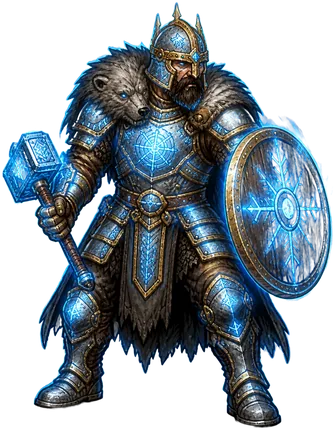
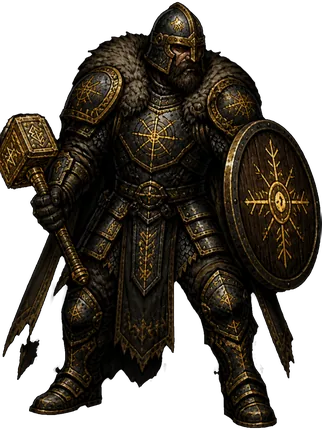
Gardien des runes : armure palier V repeinte (dorures du IV, plus lourde, sans aura)
Claude-Session: https://claude.ai/code/session_01XuxscubMSQPeew8BrSfQGu

diff --git a/index.html b/index.html
@@ -242,7 +242,7 @@ p{margin:6px 0;line-height:1.45}
 <div id="boot"><div class="bootin"><img src="assets/ui_emblem.webp" alt="" onerror="this.remove()"><h1>Couronne de Cendres</h1><div class="bootbar"><i></i></div><div class="boottxt">Les braises s'allument…</div><button class="btn ghost sm" id="bootskip" style="display:none">Continuer sans attendre</button></div></div>
 <div id="toasts" aria-live="polite"></div>
 <script>window.CC_SW = 1;</script><script>
-window.ART_LIST=["bg_abime","bg_bastion","bg_bastion2","bg_bastion_port","bg_bastion_port_src","bg_bourg","bg_catacombes","bg_cimes","bg_citadelle","bg_cite","bg_foret","bg_marais","bg_mines","bg_terres","bg_titre","bg_trone","bg_worldmap","bld_academie","bld_academie_2","bld_academie_3","bld_chapelle","bld_chapelle_2","bld_chapelle_3","bld_fonderie","bld_fonderie_2","bld_fonderie_3","bld_forge","bld_forge_2","bld_forge_3","bld_menagerie","bld_menagerie_2","bld_menagerie_3","bld_porte","bld_taverne","bld_taverne_2","bld_taverne_3","hero_arbaletriere_chasseresse","hero_arbaletriere_t1","hero_arbaletriere_t2","hero_arbaletriere_t3","hero_arbaletriere_t4","hero_arbaletriere_t5","hero_arbaletriere_tireuse_elite","hero_berserker_chef_guerre","hero_berserker_ecorcheur","hero_berserker_t1","hero_berserker_t2","hero_berserker_t3","hero_berserker_t4","hero_berserker_t5","hero_chasseur_sorcieres_purificateur","hero_chasseur_sorcieres_t1","hero_chasseur_sorcieres_t2","hero_chasseur_sorcieres_t3","hero_chasseur_sorcieres_t4","hero_chasseur_sorcieres_t5","hero_chasseur_sorcieres_traqueur","hero_exorciste_confesseur","hero_exorciste_penitent","hero_exorciste_t1","hero_exorciste_t2","hero_exorciste_t3","hero_exorciste_t4","hero_exorciste_t5","hero_gardien_runes_forge_tonnerre","hero_gardien_runes_t1","hero_gardien_runes_t2","hero_gardien_runes_t3","hero_gardien_runes_t4","hero_gardien_runes_t5","hero_gardien_runes_thane_pierre","hero_hallebardier_garde_roi","hero_hallebardier_lansquenet","hero_hallebardier_t1","hero_hallebardier_t2","hero_hallebardier_t3","hero_hallebardier_t4","hero_hallebardier_t5","hero_medecin_peste_apothicaire","hero_medecin_peste_chirurgien","hero_medecin_peste_t1","hero_medecin_peste_t2","hero_medecin_peste_t3","hero_medecin_peste_t4","hero_medecin_peste_t5","hero_menestrel_chantre","hero_menestrel_heraut","hero_menestrel_t1","hero_menestrel_t2","hero_menestrel_t3","hero_menestrel_t4","hero_menestrel_t5","hero_necromancien_liche","hero_necromancien_maitre_tombes","hero_necromancien_t1","hero_necromancien_t2","hero_necromancien_t3","hero_necromancien_t4","hero_necromancien_t5","hero_ombre_assassin","hero_ombre_ombre_sang","hero_ombre_t1","hero_ombre_t2","hero_ombre_t3","hero_ombre_t4","hero_ombre_t5","hero_pretresse_martyre","hero_pretresse_sainte","hero_pretresse_t1","hero_pretresse_t2","hero_pretresse_t3","hero_pretresse_t4","hero_pretresse_t5","hero_pyromancien_archimage","hero_pyromancien_demoniste","hero_pyromancien_t1","hero_pyromancien_t2","hero_pyromancien_t3","hero_pyromancien_t4","hero_pyromancien_t5","hero_revenant_seigneur_sang","hero_revenant_spectre","hero_revenant_t1","hero_revenant_t2","hero_revenant_t3","hero_revenant_t4","hero_revenant_t5","hero_sorciere_druidesse","hero_sorciere_sorciere_noire","hero_sorciere_t1","hero_sorciere_t2","hero_sorciere_t3","hero_sorciere_t4","hero_sorciere_t5","hero_templier_bastion","hero_templier_inquisiteur","hero_templier_t1","hero_templier_t2","hero_templier_t3","hero_templier_t4","hero_templier_t5","map_boss","map_camp","map_combat","map_elite","map_event","map_shop","map_treasure","mon_abbe","mon_alpha","mon_anguille_ombre","mon_araignee","mon_archer","mon_archer_os","mon_archonte_cendres","mon_boucher","mon_bouffon_roi","mon_bourreau","mon_brigand","mon_cardinal","mon_champion_roi","mon_charognard","mon_chauve_souris","mon_chevalier_couronne","mon_chevalier_dechu","mon_chevalier_os","mon_chevaucheur_calcine","mon_chien_cendre","mon_coeur_montagne","mon_colosse_braise","mon_contremaitre","mon_crabe_geant","mon_crapaud","mon_cultiste","mon_devoreur_lumiere","mon_diablotin","mon_docteur","mon_dryade","mon_follet","mon_fondeur_maudit","mon_garde_spectral","mon_gargouille","mon_golem","mon_golem_fer","mon_goule","mon_hallebardier_os","mon_heraut_neant","mon_homme_poisson","mon_horreur","mon_hydre","mon_inquisiteur","mon_jarl_mort","mon_leviathan","mon_liche","mon_loup","mon_loup_givre","mon_matrone_os","mon_mere_noyes","mon_mere_ronces","mon_mineur_possede","mon_moine_flagellant","mon_necrophage","mon_noye","mon_noyee_chantante","mon_oeil","mon_ogre","mon_pecheur","mon_pendu","mon_penitent_ardent","mon_pestifere","mon_pretre_abysses","mon_pretre_suie","mon_prieur","mon_profond","mon_rat","mon_reine_hiver","mon_reine_sabbat","mon_revenant_glace","mon_roi","mon_roi_noye","mon_roi_vide","mon_sangsue","mon_sans_nom","mon_sans_visage","mon_sentinelle_obsidienne","mon_seraphin_dechu","mon_sorcier_givre","mon_sorciere_marais","mon_spectre","mon_spectre_blizzard","mon_squelette","mon_thuriferaire","mon_troll_givre","mon_ver_roche","pet_araignee","pet_araignee_evo","pet_belette","pet_cerf","pet_cerf_evo","pet_chat_noir","pet_chat_noir_evo","pet_chauve_souris","pet_chauve_souris_evo","pet_chouette","pet_chouette_evo","pet_corbeau","pet_corbeau_evo","pet_crapaud","pet_crapaud_evo","pet_drake","pet_drake_evo","pet_feu_follet","pet_feu_follet_evo","pet_gargouille","pet_gargouille_evo","pet_griffon","pet_griffon_evo","pet_loup","pet_loup_evo","pet_molosse","pet_molosse_evo","pet_ours","pet_ours_evo","pet_renard","pet_renard_evo","pet_salamandre","pet_salamandre_evo","pet_sanglier","pet_sanglier_evo","pet_vipere","pet_vipere_evo","por_anselme","por_capitaine","por_maugrin","por_ysolde","tr_amulette_sel","tr_bague_fer","tr_cape_brume","tr_chapelet","tr_cloche_morte","tr_coeur_braise","tr_coeur_roi","tr_couronne_epines","tr_crane_saint","tr_croc_vampire","tr_dent_loup","tr_ecu_brise","tr_fiole_sang","tr_fragment_couronne","tr_gant_bourreau","tr_griffe_ombre","tr_herbe_rare","tr_oeil_abime","tr_oeil_verre","tr_phylactere","tr_pierre_ame","tr_plume_corbeau","tr_relique_aube","tr_sablier","tr_sceau_rouge","ui_aim","ui_amulet","ui_anvil","ui_armor","ui_atlas","ui_axe","ui_back","ui_bag","ui_banner","ui_bark","ui_bell","ui_bird","ui_bless","ui_blood","ui_bolt","ui_bones","ui_book","ui_boom","ui_camp","ui_castle","ui_chain","ui_chapel","ui_charge","ui_chest","ui_claw","ui_cleanse","ui_cloak","ui_coin","ui_crown","ui_cup","ui_curse","ui_dagger","ui_daily","ui_dice","ui_drain","ui_ember","ui_emblem","ui_essence","ui_eye","ui_fang","ui_fear","ui_feather","ui_fire","ui_flames","ui_flare","ui_flask","ui_flee","ui_frost","ui_furnace","ui_gear","ui_gem","ui_ghost","ui_glove","ui_guard","ui_hammer","ui_hand","ui_heal","ui_heart","ui_helm","ui_herb","ui_horn","ui_hourglass","ui_iron","ui_knives","ui_link","ui_lock","ui_lute","ui_mace","ui_map","ui_mark","ui_mask","ui_meteor","ui_moon","ui_music","ui_note","ui_pact","ui_paw","ui_pawn","ui_pierce","ui_pillar","ui_potion","ui_quest","ui_rage","ui_rain","ui_ray","ui_ring","ui_riposte","ui_root","ui_rosary","ui_run","ui_sanct","ui_scroll","ui_scythe","ui_seal","ui_shard","ui_shield","ui_shroud","ui_skull","ui_skullc","ui_smoke","ui_sound","ui_star","ui_stun","ui_sun","ui_sword","ui_swords","ui_tavern","ui_thorn","ui_torch","ui_trap","ui_tree","ui_trophy","ui_vial","ui_wall","ui_weapon","ui_whirl","ui_wind","wpn_arbalete","wpn_baton","wpn_croix","wpn_dagues","wpn_encensoir","wpn_espadon","wpn_faucille","wpn_faux","wpn_grimoire","wpn_hache","wpn_hallebarde","wpn_luth","wpn_marteau","wpn_masse","wpn_rapiere"];window.ART_META={"hero_arbaletriere_chasseresse": 0.019,"hero_arbaletriere_t1": 0.009,"hero_arbaletriere_t2": 0.009,"hero_arbaletriere_t3": 0.007,"hero_arbaletriere_t4": 0.007,"hero_arbaletriere_t5": 0.007,"hero_arbaletriere_tireuse_elite": 0.007,"hero_berserker_chef_guerre": 0.03,"hero_berserker_ecorcheur": 0.007,"hero_berserker_t1": 0.014,"hero_berserker_t2": 0.009,"hero_berserker_t3": 0.009,"hero_berserker_t4": 0.007,"hero_berserker_t5": 0.007,"hero_chasseur_sorcieres_purificateur": 0.056,"hero_chasseur_sorcieres_t1": 0.007,"hero_chasseur_sorcieres_t2": 0.009,"hero_chasseur_sorcieres_t3": 0.007,"hero_chasseur_sorcieres_t4": 0.007,"hero_chasseur_sorcieres_t5": 0.012,"hero_chasseur_sorcieres_traqueur": 0.007,"hero_exorciste_confesseur": 0.005,"hero_exorciste_penitent": 0.028,"hero_exorciste_t1": 0.04,"hero_exorciste_t2": 0.065,"hero_exorciste_t3": 0.074,"hero_exorciste_t4": 0.072,"hero_exorciste_t5": 0.03,"hero_gardien_runes_forge_tonnerre": 0.023,"hero_gardien_runes_t1": 0.014,"hero_gardien_runes_t2": 0.012,"hero_gardien_runes_t3": 0.014,"hero_gardien_runes_t4": 0.014,"hero_gardien_runes_t5": 0.035,"hero_gardien_runes_thane_pierre": 0.014,"hero_hallebardier_garde_roi": 0.016,"hero_hallebardier_lansquenet": 0.028,"hero_hallebardier_t1": 0.012,"hero_hallebardier_t2": 0.012,"hero_hallebardier_t3": 0.012,"hero_hallebardier_t4": 0.021,"hero_hallebardier_t5": 0.014,"hero_medecin_peste_apothicaire": 0.005,"hero_medecin_peste_chirurgien": 0.005,"hero_medecin_peste_t1": 0.007,"hero_medecin_peste_t2": 0.005,"hero_medecin_peste_t3": 0.005,"hero_medecin_peste_t4": 0.005,"hero_medecin_peste_t5": 0.005,"hero_menestrel_chantre": 0.007,"hero_menestrel_heraut": 0.13,"hero_menestrel_t1": 0.007,"hero_menestrel_t2": 0.005,"hero_menestrel_t3": 0.007,"hero_menestrel_t4": 0.012,"hero_menestrel_t5": 0.007,"hero_necromancien_liche": 0.014,"hero_necromancien_maitre_tombes": 0.079,"hero_necromancien_t1": 0.009,"hero_necromancien_t2": 0.016,"hero_necromancien_t3": 0.016,"hero_necromancien_t4": 0.016,"hero_necromancien_t5": 0.005,"hero_ombre_assassin": 0.007,"hero_ombre_ombre_sang": 0.009,"hero_ombre_t1": 0.009,"hero_ombre_t2": 0.009,"hero_ombre_t3": 0.009,"hero_ombre_t4": 0.009,"hero_ombre_t5": 0.007,"hero_pretresse_martyre": 0.102,"hero_pretresse_sainte": 0.07,"hero_pretresse_t1": 0.079,"hero_pretresse_t2": 0.1,"hero_pretresse_t3": 0.121,"hero_pretresse_t4": 0.091,"hero_pretresse_t5": 0.06,"hero_pyromancien_archimage": 0.007,"hero_pyromancien_demoniste": 0.051,"hero_pyromancien_t1": 0.009,"hero_pyromancien_t2": 0.007,"hero_pyromancien_t3": 0.007,"hero_pyromancien_t4": 0.007,"hero_pyromancien_t5": 0.009,"hero_revenant_seigneur_sang": 0.151,"hero_revenant_spectre": 0.114,"hero_revenant_t1": 0.109,"hero_revenant_t2": 0.151,"hero_revenant_t3": 0.156,"hero_revenant_t4": 0.149,"hero_revenant_t5": 0.095,"hero_sorciere_druidesse": 0.051,"hero_sorciere_sorciere_noire": 0.028,"hero_sorciere_t1": 0.007,"hero_sorciere_t2": 0.014,"hero_sorciere_t3": 0.012,"hero_sorciere_t4": 0.009,"hero_sorciere_t5": 0.019,"hero_templier_bastion": 0.021,"hero_templier_inquisiteur": 0.007,"hero_templier_t1": 0.007,"hero_templier_t2": 0.007,"hero_templier_t3": 0.005,"hero_templier_t4": 0.026,"hero_templier_t5": 0.009};window.ART_CX={"hero_arbaletriere_chasseresse":0.413,"hero_arbaletriere_t1":0.377,"hero_arbaletriere_t2":0.376,"hero_arbaletriere_t3":0.379,"hero_arbaletriere_t4":0.353,"hero_arbaletriere_t5":0.43,"hero_arbaletriere_tireuse_elite":0.329,"hero_berserker_ecorcheur":0.532,"hero_berserker_t2":0.538,"hero_chasseur_sorcieres_purificateur":0.444,"hero_chasseur_sorcieres_t1":0.307,"hero_chasseur_sorcieres_t2":0.333,"hero_chasseur_sorcieres_t3":0.335,"hero_chasseur_sorcieres_t4":0.39,"hero_chasseur_sorcieres_t5":0.439,"hero_chasseur_sorcieres_traqueur":0.395,"hero_exorciste_penitent":0.372,"hero_exorciste_t1":0.55,"hero_exorciste_t2":0.551,"hero_exorciste_t4":0.538,"hero_gardien_runes_forge_tonnerre":0.54,"hero_gardien_runes_t1":0.587,"hero_gardien_runes_t3":0.545,"hero_gardien_runes_t5":0.536,"hero_hallebardier_garde_roi":0.441,"hero_hallebardier_lansquenet":0.467,"hero_hallebardier_t1":0.43,"hero_hallebardier_t2":0.433,"hero_hallebardier_t3":0.429,"hero_hallebardier_t4":0.434,"hero_hallebardier_t5":0.463,"hero_medecin_peste_apothicaire":0.446,"hero_medecin_peste_chirurgien":0.447,"hero_medecin_peste_t1":0.447,"hero_medecin_peste_t2":0.453,"hero_medecin_peste_t3":0.446,"hero_medecin_peste_t4":0.463,"hero_medecin_peste_t5":0.451,"hero_menestrel_t1":0.46,"hero_menestrel_t3":0.468,"hero_menestrel_t5":0.432,"hero_necromancien_liche":0.53,"hero_necromancien_maitre_tombes":0.531,"hero_necromancien_t1":0.535,"hero_necromancien_t2":0.565,"hero_necromancien_t3":0.54,"hero_necromancien_t4":0.537,"hero_necromancien_t5":0.533,"hero_ombre_assassin":0.605,"hero_ombre_ombre_sang":0.56,"hero_ombre_t1":0.551,"hero_ombre_t2":0.571,"hero_ombre_t3":0.557,"hero_ombre_t4":0.598,"hero_ombre_t5":0.62,"hero_pretresse_t1":0.538,"hero_pyromancien_demoniste":0.453,"hero_revenant_seigneur_sang":0.376,"hero_revenant_spectre":0.397,"hero_revenant_t1":0.376,"hero_revenant_t2":0.371,"hero_revenant_t3":0.368,"hero_revenant_t4":0.374,"hero_revenant_t5":0.403,"hero_sorciere_druidesse":0.547,"hero_sorciere_t1":0.592,"hero_sorciere_t2":0.605,"hero_sorciere_t3":0.571,"hero_sorciere_t4":0.558,"hero_sorciere_t5":0.603,"hero_templier_inquisiteur":0.47,"hero_templier_t1":0.542,"mon_abbe":0.468,"mon_anguille_ombre":0.538,"mon_araignee":0.463,"mon_archer":0.606,"mon_archer_os":0.392,"mon_boucher":0.538,"mon_bouffon_roi":0.651,"mon_cardinal":0.591,"mon_charognard":0.537,"mon_chauve_souris":0.443,"mon_chevalier_couronne":0.577,"mon_chevalier_dechu":0.587,"mon_chevalier_os":0.538,"mon_chevaucheur_calcine":0.592,"mon_chien_cendre":0.56,"mon_coeur_montagne":0.448,"mon_colosse_braise":0.448,"mon_crapaud":0.537,"mon_cultiste":0.538,"mon_devoreur_lumiere":0.53,"mon_dryade":0.551,"mon_fondeur_maudit":0.619,"mon_garde_spectral":0.627,"mon_goule":0.557,"mon_hallebardier_os":0.609,"mon_heraut_neant":0.633,"mon_homme_poisson":0.683,"mon_inquisiteur":0.457,"mon_jarl_mort":0.458,"mon_loup":0.447,"mon_mere_noyes":0.47,"mon_mineur_possede":0.634,"mon_necrophage":0.553,"mon_noyee_chantante":0.531,"mon_ogre":0.447,"mon_pendu":0.615,"mon_penitent_ardent":0.553,"mon_pestifere":0.653,"mon_profond":0.607,"mon_reine_sabbat":0.465,"mon_revenant_glace":0.607,"mon_roi":0.559,"mon_roi_noye":0.404,"mon_roi_vide":0.56,"mon_sangsue":0.45,"mon_sans_visage":0.551,"mon_sentinelle_obsidienne":0.556,"mon_sorcier_givre":0.61,"mon_sorciere_marais":0.605,"mon_spectre":0.539,"mon_squelette":0.581,"mon_thuriferaire":0.606,"mon_troll_givre":0.587,"mon_ver_roche":0.538,"pet_araignee_evo":0.453,"pet_belette":0.433,"pet_chat_noir":0.463,"pet_chouette":0.559,"pet_corbeau":0.47,"pet_corbeau_evo":0.463,"pet_crapaud":0.437,"pet_crapaud_evo":0.467,"pet_drake":0.453,"pet_griffon":0.557,"pet_griffon_evo":0.557,"pet_loup":0.43,"pet_loup_evo":0.45,"pet_ours_evo":0.463,"pet_renard_evo":0.467,"pet_salamandre":0.47,"pet_sanglier":0.537,"pet_sanglier_evo":0.457,"pet_vipere":0.53};window.ART_FACE={"mon_abbe":[0.412,0.145,0.258],"mon_alpha":[0.1,0.58,0.4],"mon_anguille_ombre":[0.447,0.124,0.27],"mon_araignee":[0.493,0.29,0.429],"mon_archer":[0.541,0.206,0.244],"mon_archer_os":[0.34,0.246,0.224],"mon_archonte_cendres":[0.37,0.22,0.15],"mon_boucher":[0.608,0.176,0.354],"mon_bouffon_roi":[0.478,0.183,0.223],"mon_bourreau":[0.61,0.127,0.268],"mon_brigand":[0.392,0.127,0.268],"mon_cardinal":[0.527,0.178,0.248],"mon_champion_roi":[0.36,0.124,0.27],"mon_charognard":[0.13,0.45,0.28],"mon_chauve_souris":[0.304,0.639,0.561],"mon_chevalier_couronne":[0.538,0.172,0.255],"mon_chevalier_dechu":[0.515,0.196,0.244],"mon_chevalier_os":[0.56,0.136,0.244],"mon_chevaucheur_calcine":[0.58,0.12,0.18],"mon_chien_cendre":[0.203,0.286,0.394],"mon_coeur_montagne":[0.3,0.17,0.22],"mon_colosse_braise":[0.42,0.13,0.2],"mon_contremaitre":[0.533,0.124,0.27],"mon_crabe_geant":[0.45,0.4,0.5],"mon_crapaud":[0.326,0.284,0.586],"mon_cultiste":[0.596,0.127,0.268],"mon_devoreur_lumiere":[0.22,0.2,0.3],"mon_diablotin":[0.25,0.3,0.25],"mon_docteur":[0.465,0.146,0.239],"mon_dryade":[0.468,0.164,0.255],"mon_follet":[0.5,0.6,0.35],"mon_fondeur_maudit":[0.596,0.127,0.269],"mon_garde_spectral":[0.635,0.316,0.208],"mon_gargouille":[0.24,0.36,0.27],"mon_golem":[0.3,0.15,0.24],"mon_golem_fer":[0.553,0.189,0.346],"mon_goule":[0.354,0.119,0.252],"mon_hallebardier_os":[0.531,0.152,0.177],"mon_heraut_neant":[0.565,0.173,0.357],"mon_homme_poisson":[0.585,0.234,0.325],"mon_horreur":[0.476,0.273,0.304],"mon_hydre":[0.365,0.167,0.32],"mon_inquisiteur":[0.422,0.179,0.252],"mon_jarl_mort":[0.22,0.14,0.17],"mon_leviathan":[0.474,0.175,0.352],"mon_liche":[0.503,0.199,0.245],"mon_loup":[0.13,0.47,0.45],"mon_loup_givre":[0.15,0.42,0.4],"mon_matrone_os":[0.536,0.173,0.253],"mon_mere_noyes":[0.463,0.184,0.349],"mon_mere_ronces":[0.465,0.202,0.331],"mon_mineur_possede":[0.491,0.139,0.266],"mon_moine_flagellant":[0.435,0.111,0.233],"mon_necrophage":[0.436,0.127,0.261],"mon_noye":[0.522,0.127,0.268],"mon_noyee_chantante":[0.382,0.13,0.268],"mon_oeil":[0.481,0.152,0.215],"mon_ogre":[0.467,0.167,0.356],"mon_pecheur":[0.488,0.173,0.238],"mon_pendu":[0.338,0.17,0.254],"mon_penitent_ardent":[0.529,0.173,0.251],"mon_pestifere":[0.533,0.133,0.266],"mon_pretre_abysses":[0.551,0.18,0.354],"mon_pretre_suie":[0.488,0.132,0.265],"mon_prieur":[0.499,0.141,0.264],"mon_profond":[0.38,0.2,0.18],"mon_rat":[0.13,0.47,0.5],"mon_reine_hiver":[0.533,0.181,0.205],"mon_reine_sabbat":[0.476,0.188,0.249],"mon_revenant_glace":[0.564,0.172,0.298],"mon_roi":[0.546,0.166,0.253],"mon_roi_noye":[0.416,0.215,0.242],"mon_roi_vide":[0.59,0.199,0.346],"mon_sangsue":[0.264,0.17,0.355],"mon_sans_nom":[0.509,0.213,0.239],"mon_sans_visage":[0.479,0.201,0.343],"mon_sentinelle_obsidienne":[0.562,0.158,0.257],"mon_seraphin_dechu":[0.15,0.15,0.16],"mon_sorcier_givre":[0.468,0.221,0.24],"mon_sorciere_marais":[0.492,0.235,0.235],"mon_spectre":[0.434,0.112,0.237],"mon_spectre_blizzard":[0.3,0.12,0.18],"mon_squelette":[0.436,0.106,0.208],"mon_thuriferaire":[0.588,0.175,0.213],"mon_troll_givre":[0.44,0.2,0.3],"mon_ver_roche":[0.368,0.168,0.358],"pet_araignee":[0.675,0.45,0.442],"pet_araignee_evo":[0.695,0.49,0.464],"pet_belette":[0.753,0.292,0.599],"pet_cerf":[0.778,0.203,0.23],"pet_cerf_evo":[0.72,0.42,0.2],"pet_chat_noir":[0.733,0.327,0.599],"pet_chat_noir_evo":[0.729,0.353,0.453],"pet_chauve_souris":[0.55,0.55,0.4],"pet_chauve_souris_evo":[0.5,0.4,0.4],"pet_chouette":[0.74,0.33,0.25],"pet_chouette_evo":[0.6,0.42,0.18],"pet_corbeau":[0.742,0.152,0.315],"pet_corbeau_evo":[0.733,0.166,0.323],"pet_crapaud":[0.703,0.289,0.581],"pet_crapaud_evo":[0.675,0.31,0.562],"pet_drake":[0.733,0.208,0.331],"pet_drake_evo":[0.731,0.389,0.543],"pet_feu_follet":[0.45,0.52,0.3],"pet_feu_follet_evo":[0.45,0.52,0.25],"pet_gargouille":[0.75,0.32,0.38],"pet_gargouille_evo":[0.74,0.45,0.32],"pet_griffon":[0.84,0.27,0.3],"pet_griffon_evo":[0.84,0.2,0.27],"pet_loup":[0.742,0.248,0.437],"pet_loup_evo":[0.739,0.303,0.588],"pet_molosse":[0.816,0.173,0.352],"pet_molosse_evo":[0.709,0.171,0.354],"pet_ours":[0.729,0.29,0.593],"pet_ours_evo":[0.7,0.284,0.601],"pet_renard":[0.745,0.305,0.588],"pet_renard_evo":[0.69,0.507,0.467],"pet_salamandre":[0.87,0.45,0.45],"pet_salamandre_evo":[0.87,0.45,0.45],"pet_sanglier":[0.84,0.55,0.55],"pet_sanglier_evo":[0.82,0.68,0.5],"pet_vipere":[0.78,0.22,0.28],"pet_vipere_evo":[0.72,0.27,0.3]};window.UI_ATLAS={"c":12,"r":10,"s":96,"n":{"aim":0,"amulet":1,"anvil":2,"armor":3,"axe":4,"back":5,"bag":6,"banner":7,"bark":8,"bell":9,"bird":10,"bless":11,"blood":12,"bolt":13,"bones":14,"book":15,"boom":16,"camp":17,"castle":18,"chain":19,"chapel":20,"charge":21,"chest":22,"claw":23,"cleanse":24,"cloak":25,"coin":26,"crown":27,"cup":28,"curse":29,"dagger":30,"daily":31,"dice":32,"drain":33,"ember":34,"essence":35,"eye":36,"fang":37,"fear":38,"feather":39,"fire":40,"flames":41,"flare":42,"flask":43,"flee":44,"frost":45,"furnace":46,"gear":47,"gem":48,"ghost":49,"glove":50,"guard":51,"hammer":52,"hand":53,"heal":54,"heart":55,"helm":56,"herb":57,"horn":58,"hourglass":59,"iron":60,"knives":61,"link":62,"lock":63,"lute":64,"mace":65,"map":66,"mark":67,"mask":68,"meteor":69,"moon":70,"music":71,"note":72,"pact":73,"paw":74,"pierce":75,"pillar":76,"potion":77,"quest":78,"rage":79,"rain":80,"ray":81,"ring":82,"riposte":83,"root":84,"rosary":85,"run":86,"sanct":87,"scroll":88,"scythe":89,"seal":90,"shard":91,"shield":92,"shroud":93,"skull":94,"skullc":95,"smoke":96,"sound":97,"star":98,"stun":99,"sun":100,"sword":101,"swords":102,"tavern":103,"thorn":104,"torch":105,"trap":106,"tree":107,"trophy":108,"vial":109,"wall":110,"weapon":111,"whirl":112,"wind":113}};window.SFX_LIST=["amb_abime","amb_bastion","amb_bourg","amb_catacombes","amb_cimes","amb_citadelle","amb_cite","amb_foret","amb_marais","amb_mines","amb_terres","amb_trone","fx_bell_1","fx_bleed_1","fx_bleed_2","fx_block_1","fx_block_2","fx_buff_1","fx_click_1","fx_coin_1","fx_coin_2","fx_crit_1","fx_crit_2","fx_dark_1","fx_dark_2","fx_dark_3","fx_debuff_1","fx_debuff_2","fx_die_1","fx_die_2","fx_door_1","fx_door_2","fx_fall_1","fx_fire_1","fx_fire_2","fx_fire_3","fx_forge_1","fx_forge_2","fx_frost_1","fx_frost_2","fx_heal_1","fx_heal_2","fx_heal_3","fx_heal_4","fx_heavy_1","fx_heavy_2","fx_hit_1","fx_hit_2","fx_hit_3","fx_hit_4","fx_holy_1","fx_holy_2","fx_holy_3","fx_level_1","fx_lose_1","fx_miss_1","fx_miss_2","fx_open_1","fx_poison_1","fx_poison_2","fx_shock_1","fx_shock_2","fx_shoot_1","fx_shoot_2","fx_slash_1","fx_slash_2","fx_slash_3","fx_step_1","fx_step_2","fx_step_3","fx_stun_1","fx_ult_1","fx_win_1"];window.ART_FLIP=["mon_archer_os","mon_moine_flagellant","mon_spectre","hero_ombre_assassin","hero_ombre_ombre_sang","mon_cardinal"];
+window.ART_LIST=["bg_abime","bg_bastion","bg_bastion2","bg_bastion_port","bg_bastion_port_src","bg_bourg","bg_catacombes","bg_cimes","bg_citadelle","bg_cite","bg_foret","bg_marais","bg_mines","bg_terres","bg_titre","bg_trone","bg_worldmap","bld_academie","bld_academie_2","bld_academie_3","bld_chapelle","bld_chapelle_2","bld_chapelle_3","bld_fonderie","bld_fonderie_2","bld_fonderie_3","bld_forge","bld_forge_2","bld_forge_3","bld_menagerie","bld_menagerie_2","bld_menagerie_3","bld_porte","bld_taverne","bld_taverne_2","bld_taverne_3","hero_arbaletriere_chasseresse","hero_arbaletriere_t1","hero_arbaletriere_t2","hero_arbaletriere_t3","hero_arbaletriere_t4","hero_arbaletriere_t5","hero_arbaletriere_tireuse_elite","hero_berserker_chef_guerre","hero_berserker_ecorcheur","hero_berserker_t1","hero_berserker_t2","hero_berserker_t3","hero_berserker_t4","hero_berserker_t5","hero_chasseur_sorcieres_purificateur","hero_chasseur_sorcieres_t1","hero_chasseur_sorcieres_t2","hero_chasseur_sorcieres_t3","hero_chasseur_sorcieres_t4","hero_chasseur_sorcieres_t5","hero_chasseur_sorcieres_traqueur","hero_exorciste_confesseur","hero_exorciste_penitent","hero_exorciste_t1","hero_exorciste_t2","hero_exorciste_t3","hero_exorciste_t4","hero_exorciste_t5","hero_gardien_runes_forge_tonnerre","hero_gardien_runes_t1","hero_gardien_runes_t2","hero_gardien_runes_t3","hero_gardien_runes_t4","hero_gardien_runes_t5","hero_gardien_runes_thane_pierre","hero_hallebardier_garde_roi","hero_hallebardier_lansquenet","hero_hallebardier_t1","hero_hallebardier_t2","hero_hallebardier_t3","hero_hallebardier_t4","hero_hallebardier_t5","hero_medecin_peste_apothicaire","hero_medecin_peste_chirurgien","hero_medecin_peste_t1","hero_medecin_peste_t2","hero_medecin_peste_t3","hero_medecin_peste_t4","hero_medecin_peste_t5","hero_menestrel_chantre","hero_menestrel_heraut","hero_menestrel_t1","hero_menestrel_t2","hero_menestrel_t3","hero_menestrel_t4","hero_menestrel_t5","hero_necromancien_liche","hero_necromancien_maitre_tombes","hero_necromancien_t1","hero_necromancien_t2","hero_necromancien_t3","hero_necromancien_t4","hero_necromancien_t5","hero_ombre_assassin","hero_ombre_ombre_sang","hero_ombre_t1","hero_ombre_t2","hero_ombre_t3","hero_ombre_t4","hero_ombre_t5","hero_pretresse_martyre","hero_pretresse_sainte","hero_pretresse_t1","hero_pretresse_t2","hero_pretresse_t3","hero_pretresse_t4","hero_pretresse_t5","hero_pyromancien_archimage","hero_pyromancien_demoniste","hero_pyromancien_t1","hero_pyromancien_t2","hero_pyromancien_t3","hero_pyromancien_t4","hero_pyromancien_t5","hero_revenant_seigneur_sang","hero_revenant_spectre","hero_revenant_t1","hero_revenant_t2","hero_revenant_t3","hero_revenant_t4","hero_revenant_t5","hero_sorciere_druidesse","hero_sorciere_sorciere_noire","hero_sorciere_t1","hero_sorciere_t2","hero_sorciere_t3","hero_sorciere_t4","hero_sorciere_t5","hero_templier_bastion","hero_templier_inquisiteur","hero_templier_t1","hero_templier_t2","hero_templier_t3","hero_templier_t4","hero_templier_t5","map_boss","map_camp","map_combat","map_elite","map_event","map_shop","map_treasure","mon_abbe","mon_alpha","mon_anguille_ombre","mon_araignee","mon_archer","mon_archer_os","mon_archonte_cendres","mon_boucher","mon_bouffon_roi","mon_bourreau","mon_brigand","mon_cardinal","mon_champion_roi","mon_charognard","mon_chauve_souris","mon_chevalier_couronne","mon_chevalier_dechu","mon_chevalier_os","mon_chevaucheur_calcine","mon_chien_cendre","mon_coeur_montagne","mon_colosse_braise","mon_contremaitre","mon_crabe_geant","mon_crapaud","mon_cultiste","mon_devoreur_lumiere","mon_diablotin","mon_docteur","mon_dryade","mon_follet","mon_fondeur_maudit","mon_garde_spectral","mon_gargouille","mon_golem","mon_golem_fer","mon_goule","mon_hallebardier_os","mon_heraut_neant","mon_homme_poisson","mon_horreur","mon_hydre","mon_inquisiteur","mon_jarl_mort","mon_leviathan","mon_liche","mon_loup","mon_loup_givre","mon_matrone_os","mon_mere_noyes","mon_mere_ronces","mon_mineur_possede","mon_moine_flagellant","mon_necrophage","mon_noye","mon_noyee_chantante","mon_oeil","mon_ogre","mon_pecheur","mon_pendu","mon_penitent_ardent","mon_pestifere","mon_pretre_abysses","mon_pretre_suie","mon_prieur","mon_profond","mon_rat","mon_reine_hiver","mon_reine_sabbat","mon_revenant_glace","mon_roi","mon_roi_noye","mon_roi_vide","mon_sangsue","mon_sans_nom","mon_sans_visage","mon_sentinelle_obsidienne","mon_seraphin_dechu","mon_sorcier_givre","mon_sorciere_marais","mon_spectre","mon_spectre_blizzard","mon_squelette","mon_thuriferaire","mon_troll_givre","mon_ver_roche","pet_araignee","pet_araignee_evo","pet_belette","pet_cerf","pet_cerf_evo","pet_chat_noir","pet_chat_noir_evo","pet_chauve_souris","pet_chauve_souris_evo","pet_chouette","pet_chouette_evo","pet_corbeau","pet_corbeau_evo","pet_crapaud","pet_crapaud_evo","pet_drake","pet_drake_evo","pet_feu_follet","pet_feu_follet_evo","pet_gargouille","pet_gargouille_evo","pet_griffon","pet_griffon_evo","pet_loup","pet_loup_evo","pet_molosse","pet_molosse_evo","pet_ours","pet_ours_evo","pet_renard","pet_renard_evo","pet_salamandre","pet_salamandre_evo","pet_sanglier","pet_sanglier_evo","pet_vipere","pet_vipere_evo","por_anselme","por_capitaine","por_maugrin","por_ysolde","tr_amulette_sel","tr_bague_fer","tr_cape_brume","tr_chapelet","tr_cloche_morte","tr_coeur_braise","tr_coeur_roi","tr_couronne_epines","tr_crane_saint","tr_croc_vampire","tr_dent_loup","tr_ecu_brise","tr_fiole_sang","tr_fragment_couronne","tr_gant_bourreau","tr_griffe_ombre","tr_herbe_rare","tr_oeil_abime","tr_oeil_verre","tr_phylactere","tr_pierre_ame","tr_plume_corbeau","tr_relique_aube","tr_sablier","tr_sceau_rouge","ui_aim","ui_amulet","ui_anvil","ui_armor","ui_atlas","ui_axe","ui_back","ui_bag","ui_banner","ui_bark","ui_bell","ui_bird","ui_bless","ui_blood","ui_bolt","ui_bones","ui_book","ui_boom","ui_camp","ui_castle","ui_chain","ui_chapel","ui_charge","ui_chest","ui_claw","ui_cleanse","ui_cloak","ui_coin","ui_crown","ui_cup","ui_curse","ui_dagger","ui_daily","ui_dice","ui_drain","ui_ember","ui_emblem","ui_essence","ui_eye","ui_fang","ui_fear","ui_feather","ui_fire","ui_flames","ui_flare","ui_flask","ui_flee","ui_frost","ui_furnace","ui_gear","ui_gem","ui_ghost","ui_glove","ui_guard","ui_hammer","ui_hand","ui_heal","ui_heart","ui_helm","ui_herb","ui_horn","ui_hourglass","ui_iron","ui_knives","ui_link","ui_lock","ui_lute","ui_mace","ui_map","ui_mark","ui_mask","ui_meteor","ui_moon","ui_music","ui_note","ui_pact","ui_paw","ui_pawn","ui_pierce","ui_pillar","ui_potion","ui_quest","ui_rage","ui_rain","ui_ray","ui_ring","ui_riposte","ui_root","ui_rosary","ui_run","ui_sanct","ui_scroll","ui_scythe","ui_seal","ui_shard","ui_shield","ui_shroud","ui_skull","ui_skullc","ui_smoke","ui_sound","ui_star","ui_stun","ui_sun","ui_sword","ui_swords","ui_tavern","ui_thorn","ui_torch","ui_trap","ui_tree","ui_trophy","ui_vial","ui_wall","ui_weapon","ui_whirl","ui_wind","wpn_arbalete","wpn_baton","wpn_croix","wpn_dagues","wpn_encensoir","wpn_espadon","wpn_faucille","wpn_faux","wpn_grimoire","wpn_hache","wpn_hallebarde","wpn_luth","wpn_marteau","wpn_masse","wpn_rapiere"];window.ART_META={"hero_arbaletriere_chasseresse": 0.019,"hero_arbaletriere_t1": 0.009,"hero_arbaletriere_t2": 0.009,"hero_arbaletriere_t3": 0.007,"hero_arbaletriere_t4": 0.007,"hero_arbaletriere_t5": 0.007,"hero_arbaletriere_tireuse_elite": 0.007,"hero_berserker_chef_guerre": 0.03,"hero_berserker_ecorcheur": 0.007,"hero_berserker_t1": 0.014,"hero_berserker_t2": 0.009,"hero_berserker_t3": 0.009,"hero_berserker_t4": 0.007,"hero_berserker_t5": 0.007,"hero_chasseur_sorcieres_purificateur": 0.056,"hero_chasseur_sorcieres_t1": 0.007,"hero_chasseur_sorcieres_t2": 0.009,"hero_chasseur_sorcieres_t3": 0.007,"hero_chasseur_sorcieres_t4": 0.007,"hero_chasseur_sorcieres_t5": 0.012,"hero_chasseur_sorcieres_traqueur": 0.007,"hero_exorciste_confesseur": 0.005,"hero_exorciste_penitent": 0.028,"hero_exorciste_t1": 0.04,"hero_exorciste_t2": 0.065,"hero_exorciste_t3": 0.074,"hero_exorciste_t4": 0.072,"hero_exorciste_t5": 0.03,"hero_gardien_runes_forge_tonnerre": 0.023,"hero_gardien_runes_t1": 0.014,"hero_gardien_runes_t2": 0.012,"hero_gardien_runes_t3": 0.014,"hero_gardien_runes_t4": 0.014,"hero_gardien_runes_t5": 0.014,"hero_gardien_runes_thane_pierre": 0.014,"hero_hallebardier_garde_roi": 0.016,"hero_hallebardier_lansquenet": 0.028,"hero_hallebardier_t1": 0.012,"hero_hallebardier_t2": 0.012,"hero_hallebardier_t3": 0.012,"hero_hallebardier_t4": 0.021,"hero_hallebardier_t5": 0.014,"hero_medecin_peste_apothicaire": 0.005,"hero_medecin_peste_chirurgien": 0.005,"hero_medecin_peste_t1": 0.007,"hero_medecin_peste_t2": 0.005,"hero_medecin_peste_t3": 0.005,"hero_medecin_peste_t4": 0.005,"hero_medecin_peste_t5": 0.005,"hero_menestrel_chantre": 0.007,"hero_menestrel_heraut": 0.13,"hero_menestrel_t1": 0.007,"hero_menestrel_t2": 0.005,"hero_menestrel_t3": 0.007,"hero_menestrel_t4": 0.012,"hero_menestrel_t5": 0.007,"hero_necromancien_liche": 0.014,"hero_necromancien_maitre_tombes": 0.079,"hero_necromancien_t1": 0.009,"hero_necromancien_t2": 0.016,"hero_necromancien_t3": 0.016,"hero_necromancien_t4": 0.016,"hero_necromancien_t5": 0.005,"hero_ombre_assassin": 0.007,"hero_ombre_ombre_sang": 0.009,"hero_ombre_t1": 0.009,"hero_ombre_t2": 0.009,"hero_ombre_t3": 0.009,"hero_ombre_t4": 0.009,"hero_ombre_t5": 0.007,"hero_pretresse_martyre": 0.102,"hero_pretresse_sainte": 0.07,"hero_pretresse_t1": 0.079,"hero_pretresse_t2": 0.1,"hero_pretresse_t3": 0.121,"hero_pretresse_t4": 0.091,"hero_pretresse_t5": 0.06,"hero_pyromancien_archimage": 0.007,"hero_pyromancien_demoniste": 0.051,"hero_pyromancien_t1": 0.009,"hero_pyromancien_t2": 0.007,"hero_pyromancien_t3": 0.007,"hero_pyromancien_t4": 0.007,"hero_pyromancien_t5": 0.009,"hero_revenant_seigneur_sang": 0.151,"hero_revenant_spectre": 0.114,"hero_revenant_t1": 0.109,"hero_revenant_t2": 0.151,"hero_revenant_t3": 0.156,"hero_revenant_t4": 0.149,"hero_revenant_t5": 0.095,"hero_sorciere_druidesse": 0.051,"hero_sorciere_sorciere_noire": 0.028,"hero_sorciere_t1": 0.007,"hero_sorciere_t2": 0.014,"hero_sorciere_t3": 0.012,"hero_sorciere_t4": 0.009,"hero_sorciere_t5": 0.019,"hero_templier_bastion": 0.021,"hero_templier_inquisiteur": 0.007,"hero_templier_t1": 0.007,"hero_templier_t2": 0.007,"hero_templier_t3": 0.005,"hero_templier_t4": 0.026,"hero_templier_t5": 0.009};window.ART_CX={"hero_arbaletriere_chasseresse":0.413,"hero_arbaletriere_t1":0.377,"hero_arbaletriere_t2":0.376,"hero_arbaletriere_t3":0.379,"hero_arbaletriere_t4":0.353,"hero_arbaletriere_t5":0.43,"hero_arbaletriere_tireuse_elite":0.329,"hero_berserker_ecorcheur":0.532,"hero_berserker_t2":0.538,"hero_chasseur_sorcieres_purificateur":0.444,"hero_chasseur_sorcieres_t1":0.307,"hero_chasseur_sorcieres_t2":0.333,"hero_chasseur_sorcieres_t3":0.335,"hero_chasseur_sorcieres_t4":0.39,"hero_chasseur_sorcieres_t5":0.439,"hero_chasseur_sorcieres_traqueur":0.395,"hero_exorciste_penitent":0.372,"hero_exorciste_t1":0.55,"hero_exorciste_t2":0.551,"hero_exorciste_t4":0.538,"hero_gardien_runes_forge_tonnerre":0.54,"hero_gardien_runes_t1":0.587,"hero_gardien_runes_t3":0.545,"hero_hallebardier_garde_roi":0.441,"hero_hallebardier_lansquenet":0.467,"hero_hallebardier_t1":0.43,"hero_hallebardier_t2":0.433,"hero_hallebardier_t3":0.429,"hero_hallebardier_t4":0.434,"hero_hallebardier_t5":0.463,"hero_medecin_peste_apothicaire":0.446,"hero_medecin_peste_chirurgien":0.447,"hero_medecin_peste_t1":0.447,"hero_medecin_peste_t2":0.453,"hero_medecin_peste_t3":0.446,"hero_medecin_peste_t4":0.463,"hero_medecin_peste_t5":0.451,"hero_menestrel_t1":0.46,"hero_menestrel_t3":0.468,"hero_menestrel_t5":0.432,"hero_necromancien_liche":0.53,"hero_necromancien_maitre_tombes":0.531,"hero_necromancien_t1":0.535,"hero_necromancien_t2":0.565,"hero_necromancien_t3":0.54,"hero_necromancien_t4":0.537,"hero_necromancien_t5":0.533,"hero_ombre_assassin":0.605,"hero_ombre_ombre_sang":0.56,"hero_ombre_t1":0.551,"hero_ombre_t2":0.571,"hero_ombre_t3":0.557,"hero_ombre_t4":0.598,"hero_ombre_t5":0.62,"hero_pretresse_t1":0.538,"hero_pyromancien_demoniste":0.453,"hero_revenant_seigneur_sang":0.376,"hero_revenant_spectre":0.397,"hero_revenant_t1":0.376,"hero_revenant_t2":0.371,"hero_revenant_t3":0.368,"hero_revenant_t4":0.374,"hero_revenant_t5":0.403,"hero_sorciere_druidesse":0.547,"hero_sorciere_t1":0.592,"hero_sorciere_t2":0.605,"hero_sorciere_t3":0.571,"hero_sorciere_t4":0.558,"hero_sorciere_t5":0.603,"hero_templier_inquisiteur":0.47,"hero_templier_t1":0.542,"mon_abbe":0.468,"mon_anguille_ombre":0.538,"mon_araignee":0.463,"mon_archer":0.606,"mon_archer_os":0.392,"mon_boucher":0.538,"mon_bouffon_roi":0.651,"mon_cardinal":0.591,"mon_charognard":0.537,"mon_chauve_souris":0.443,"mon_chevalier_couronne":0.577,"mon_chevalier_dechu":0.587,"mon_chevalier_os":0.538,"mon_chevaucheur_calcine":0.592,"mon_chien_cendre":0.56,"mon_coeur_montagne":0.448,"mon_colosse_braise":0.448,"mon_crapaud":0.537,"mon_cultiste":0.538,"mon_devoreur_lumiere":0.53,"mon_dryade":0.551,"mon_fondeur_maudit":0.619,"mon_garde_spectral":0.627,"mon_goule":0.557,"mon_hallebardier_os":0.609,"mon_heraut_neant":0.633,"mon_homme_poisson":0.683,"mon_inquisiteur":0.457,"mon_jarl_mort":0.458,"mon_loup":0.447,"mon_mere_noyes":0.47,"mon_mineur_possede":0.634,"mon_necrophage":0.553,"mon_noyee_chantante":0.531,"mon_ogre":0.447,"mon_pendu":0.615,"mon_penitent_ardent":0.553,"mon_pestifere":0.653,"mon_profond":0.607,"mon_reine_sabbat":0.465,"mon_revenant_glace":0.607,"mon_roi":0.559,"mon_roi_noye":0.404,"mon_roi_vide":0.56,"mon_sangsue":0.45,"mon_sans_visage":0.551,"mon_sentinelle_obsidienne":0.556,"mon_sorcier_givre":0.61,"mon_sorciere_marais":0.605,"mon_spectre":0.539,"mon_squelette":0.581,"mon_thuriferaire":0.606,"mon_troll_givre":0.587,"mon_ver_roche":0.538,"pet_araignee_evo":0.453,"pet_belette":0.433,"pet_chat_noir":0.463,"pet_chouette":0.559,"pet_corbeau":0.47,"pet_corbeau_evo":0.463,"pet_crapaud":0.437,"pet_crapaud_evo":0.467,"pet_drake":0.453,"pet_griffon":0.557,"pet_griffon_evo":0.557,"pet_loup":0.43,"pet_loup_evo":0.45,"pet_ours_evo":0.463,"pet_renard_evo":0.467,"pet_salamandre":0.47,"pet_sanglier":0.537,"pet_sanglier_evo":0.457,"pet_vipere":0.53};window.ART_FACE={"mon_abbe":[0.412,0.145,0.258],"mon_alpha":[0.1,0.58,0.4],"mon_anguille_ombre":[0.447,0.124,0.27],"mon_araignee":[0.493,0.29,0.429],"mon_archer":[0.541,0.206,0.244],"mon_archer_os":[0.34,0.246,0.224],"mon_archonte_cendres":[0.37,0.22,0.15],"mon_boucher":[0.608,0.176,0.354],"mon_bouffon_roi":[0.478,0.183,0.223],"mon_bourreau":[0.61,0.127,0.268],"mon_brigand":[0.392,0.127,0.268],"mon_cardinal":[0.527,0.178,0.248],"mon_champion_roi":[0.36,0.124,0.27],"mon_charognard":[0.13,0.45,0.28],"mon_chauve_souris":[0.304,0.639,0.561],"mon_chevalier_couronne":[0.538,0.172,0.255],"mon_chevalier_dechu":[0.515,0.196,0.244],"mon_chevalier_os":[0.56,0.136,0.244],"mon_chevaucheur_calcine":[0.58,0.12,0.18],"mon_chien_cendre":[0.203,0.286,0.394],"mon_coeur_montagne":[0.3,0.17,0.22],"mon_colosse_braise":[0.42,0.13,0.2],"mon_contremaitre":[0.533,0.124,0.27],"mon_crabe_geant":[0.45,0.4,0.5],"mon_crapaud":[0.326,0.284,0.586],"mon_cultiste":[0.596,0.127,0.268],"mon_devoreur_lumiere":[0.22,0.2,0.3],"mon_diablotin":[0.25,0.3,0.25],"mon_docteur":[0.465,0.146,0.239],"mon_dryade":[0.468,0.164,0.255],"mon_follet":[0.5,0.6,0.35],"mon_fondeur_maudit":[0.596,0.127,0.269],"mon_garde_spectral":[0.635,0.316,0.208],"mon_gargouille":[0.24,0.36,0.27],"mon_golem":[0.3,0.15,0.24],"mon_golem_fer":[0.553,0.189,0.346],"mon_goule":[0.354,0.119,0.252],"mon_hallebardier_os":[0.531,0.152,0.177],"mon_heraut_neant":[0.565,0.173,0.357],"mon_homme_poisson":[0.585,0.234,0.325],"mon_horreur":[0.476,0.273,0.304],"mon_hydre":[0.365,0.167,0.32],"mon_inquisiteur":[0.422,0.179,0.252],"mon_jarl_mort":[0.22,0.14,0.17],"mon_leviathan":[0.474,0.175,0.352],"mon_liche":[0.503,0.199,0.245],"mon_loup":[0.13,0.47,0.45],"mon_loup_givre":[0.15,0.42,0.4],"mon_matrone_os":[0.536,0.173,0.253],"mon_mere_noyes":[0.463,0.184,0.349],"mon_mere_ronces":[0.465,0.202,0.331],"mon_mineur_possede":[0.491,0.139,0.266],"mon_moine_flagellant":[0.435,0.111,0.233],"mon_necrophage":[0.436,0.127,0.261],"mon_noye":[0.522,0.127,0.268],"mon_noyee_chantante":[0.382,0.13,0.268],"mon_oeil":[0.481,0.152,0.215],"mon_ogre":[0.467,0.167,0.356],"mon_pecheur":[0.488,0.173,0.238],"mon_pendu":[0.338,0.17,0.254],"mon_penitent_ardent":[0.529,0.173,0.251],"mon_pestifere":[0.533,0.133,0.266],"mon_pretre_abysses":[0.551,0.18,0.354],"mon_pretre_suie":[0.488,0.132,0.265],"mon_prieur":[0.499,0.141,0.264],"mon_profond":[0.38,0.2,0.18],"mon_rat":[0.13,0.47,0.5],"mon_reine_hiver":[0.533,0.181,0.205],"mon_reine_sabbat":[0.476,0.188,0.249],"mon_revenant_glace":[0.564,0.172,0.298],"mon_roi":[0.546,0.166,0.253],"mon_roi_noye":[0.416,0.215,0.242],"mon_roi_vide":[0.59,0.199,0.346],"mon_sangsue":[0.264,0.17,0.355],"mon_sans_nom":[0.509,0.213,0.239],"mon_sans_visage":[0.479,0.201,0.343],"mon_sentinelle_obsidienne":[0.562,0.158,0.257],"mon_seraphin_dechu":[0.15,0.15,0.16],"mon_sorcier_givre":[0.468,0.221,0.24],"mon_sorciere_marais":[0.492,0.235,0.235],"mon_spectre":[0.434,0.112,0.237],"mon_spectre_blizzard":[0.3,0.12,0.18],"mon_squelette":[0.436,0.106,0.208],"mon_thuriferaire":[0.588,0.175,0.213],"mon_troll_givre":[0.44,0.2,0.3],"mon_ver_roche":[0.368,0.168,0.358],"pet_araignee":[0.675,0.45,0.442],"pet_araignee_evo":[0.695,0.49,0.464],"pet_belette":[0.753,0.292,0.599],"pet_cerf":[0.778,0.203,0.23],"pet_cerf_evo":[0.72,0.42,0.2],"pet_chat_noir":[0.733,0.327,0.599],"pet_chat_noir_evo":[0.729,0.353,0.453],"pet_chauve_souris":[0.55,0.55,0.4],"pet_chauve_souris_evo":[0.5,0.4,0.4],"pet_chouette":[0.74,0.33,0.25],"pet_chouette_evo":[0.6,0.42,0.18],"pet_corbeau":[0.742,0.152,0.315],"pet_corbeau_evo":[0.733,0.166,0.323],"pet_crapaud":[0.703,0.289,0.581],"pet_crapaud_evo":[0.675,0.31,0.562],"pet_drake":[0.733,0.208,0.331],"pet_drake_evo":[0.731,0.389,0.543],"pet_feu_follet":[0.45,0.52,0.3],"pet_feu_follet_evo":[0.45,0.52,0.25],"pet_gargouille":[0.75,0.32,0.38],"pet_gargouille_evo":[0.74,0.45,0.32],"pet_griffon":[0.84,0.27,0.3],"pet_griffon_evo":[0.84,0.2,0.27],"pet_loup":[0.742,0.248,0.437],"pet_loup_evo":[0.739,0.303,0.588],"pet_molosse":[0.816,0.173,0.352],"pet_molosse_evo":[0.709,0.171,0.354],"pet_ours":[0.729,0.29,0.593],"pet_ours_evo":[0.7,0.284,0.601],"pet_renard":[0.745,0.305,0.588],"pet_renard_evo":[0.69,0.507,0.467],"pet_salamandre":[0.87,0.45,0.45],"pet_salamandre_evo":[0.87,0.45,0.45],"pet_sanglier":[0.84,0.55,0.55],"pet_sanglier_evo":[0.82,0.68,0.5],"pet_vipere":[0.78,0.22,0.28],"pet_vipere_evo":[0.72,0.27,0.3]};window.UI_ATLAS={"c":12,"r":10,"s":96,"n":{"aim":0,"amulet":1,"anvil":2,"armor":3,"axe":4,"back":5,"bag":6,"banner":7,"bark":8,"bell":9,"bird":10,"bless":11,"blood":12,"bolt":13,"bones":14,"book":15,"boom":16,"camp":17,"castle":18,"chain":19,"chapel":20,"charge":21,"chest":22,"claw":23,"cleanse":24,"cloak":25,"coin":26,"crown":27,"cup":28,"curse":29,"dagger":30,"daily":31,"dice":32,"drain":33,"ember":34,"essence":35,"eye":36,"fang":37,"fear":38,"feather":39,"fire":40,"flames":41,"flare":42,"flask":43,"flee":44,"frost":45,"furnace":46,"gear":47,"gem":48,"ghost":49,"glove":50,"guard":51,"hammer":52,"hand":53,"heal":54,"heart":55,"helm":56,"herb":57,"horn":58,"hourglass":59,"iron":60,"knives":61,"link":62,"lock":63,"lute":64,"mace":65,"map":66,"mark":67,"mask":68,"meteor":69,"moon":70,"music":71,"note":72,"pact":73,"paw":74,"pierce":75,"pillar":76,"potion":77,"quest":78,"rage":79,"rain":80,"ray":81,"ring":82,"riposte":83,"root":84,"rosary":85,"run":86,"sanct":87,"scroll":88,"scythe":89,"seal":90,"shard":91,"shield":92,"shroud":93,"skull":94,"skullc":95,"smoke":96,"sound":97,"star":98,"stun":99,"sun":100,"sword":101,"swords":102,"tavern":103,"thorn":104,"torch":105,"trap":106,"tree":107,"trophy":108,"vial":109,"wall":110,"weapon":111,"whirl":112,"wind":113}};window.SFX_LIST=["amb_abime","amb_bastion","amb_bourg","amb_catacombes","amb_cimes","amb_citadelle","amb_cite","amb_foret","amb_marais","amb_mines","amb_terres","amb_trone","fx_bell_1","fx_bleed_1","fx_bleed_2","fx_block_1","fx_block_2","fx_buff_1","fx_click_1","fx_coin_1","fx_coin_2","fx_crit_1","fx_crit_2","fx_dark_1","fx_dark_2","fx_dark_3","fx_debuff_1","fx_debuff_2","fx_die_1","fx_die_2","fx_door_1","fx_door_2","fx_fall_1","fx_fire_1","fx_fire_2","fx_fire_3","fx_forge_1","fx_forge_2","fx_frost_1","fx_frost_2","fx_heal_1","fx_heal_2","fx_heal_3","fx_heal_4","fx_heavy_1","fx_heavy_2","fx_hit_1","fx_hit_2","fx_hit_3","fx_hit_4","fx_holy_1","fx_holy_2","fx_holy_3","fx_level_1","fx_lose_1","fx_miss_1","fx_miss_2","fx_open_1","fx_poison_1","fx_poison_2","fx_shock_1","fx_shock_2","fx_shoot_1","fx_shoot_2","fx_slash_1","fx_slash_2","fx_slash_3","fx_step_1","fx_step_2","fx_step_3","fx_stun_1","fx_ult_1","fx_win_1"];window.ART_FLIP=["mon_archer_os","mon_moine_flagellant","mon_spectre","hero_ombre_assassin","hero_ombre_ombre_sang","mon_cardinal"];
 /* ═══════════════════════ Couronne de Cendres — utilitaires ═══════════════════════ */
 "use strict";
 const HASWIN = typeof window !== "undefined" && typeof document !== "undefined";

diff --git a/sw.js b/sw.js
@@ -1,5 +1,5 @@
 /* Service worker : le jeu fonctionne hors connexion une fois installé. */
-const CACHE = "couronne-cendres-db13a3ed35", ART_CACHE = "couronne-cendres-art-d907b721";
+const CACHE = "couronne-cendres-760dcd1088", ART_CACHE = "couronne-cendres-art-f16f6b5a";
 const SHELL = ["./", "./index.html", "./manifest.webmanifest", "./icon-192.png", "./icon-512.png", "./icon-maskable-512.png", "./apple-touch-icon.png", "./favicon-64.png"];
 self.addEventListener("install", e => { e.waitUntil(caches.open(CACHE).then(c => c.addAll(SHELL)).then(() => self.skipWaiting())); });
 self.addEventListener("activate", e => { e.waitUntil(caches.keys().then(ks => Promise.all(ks.filter(k => k !== CACHE && k !== ART_CACHE).map(k => caches.delete(k)))).then(() => self.clients.claim())); });
